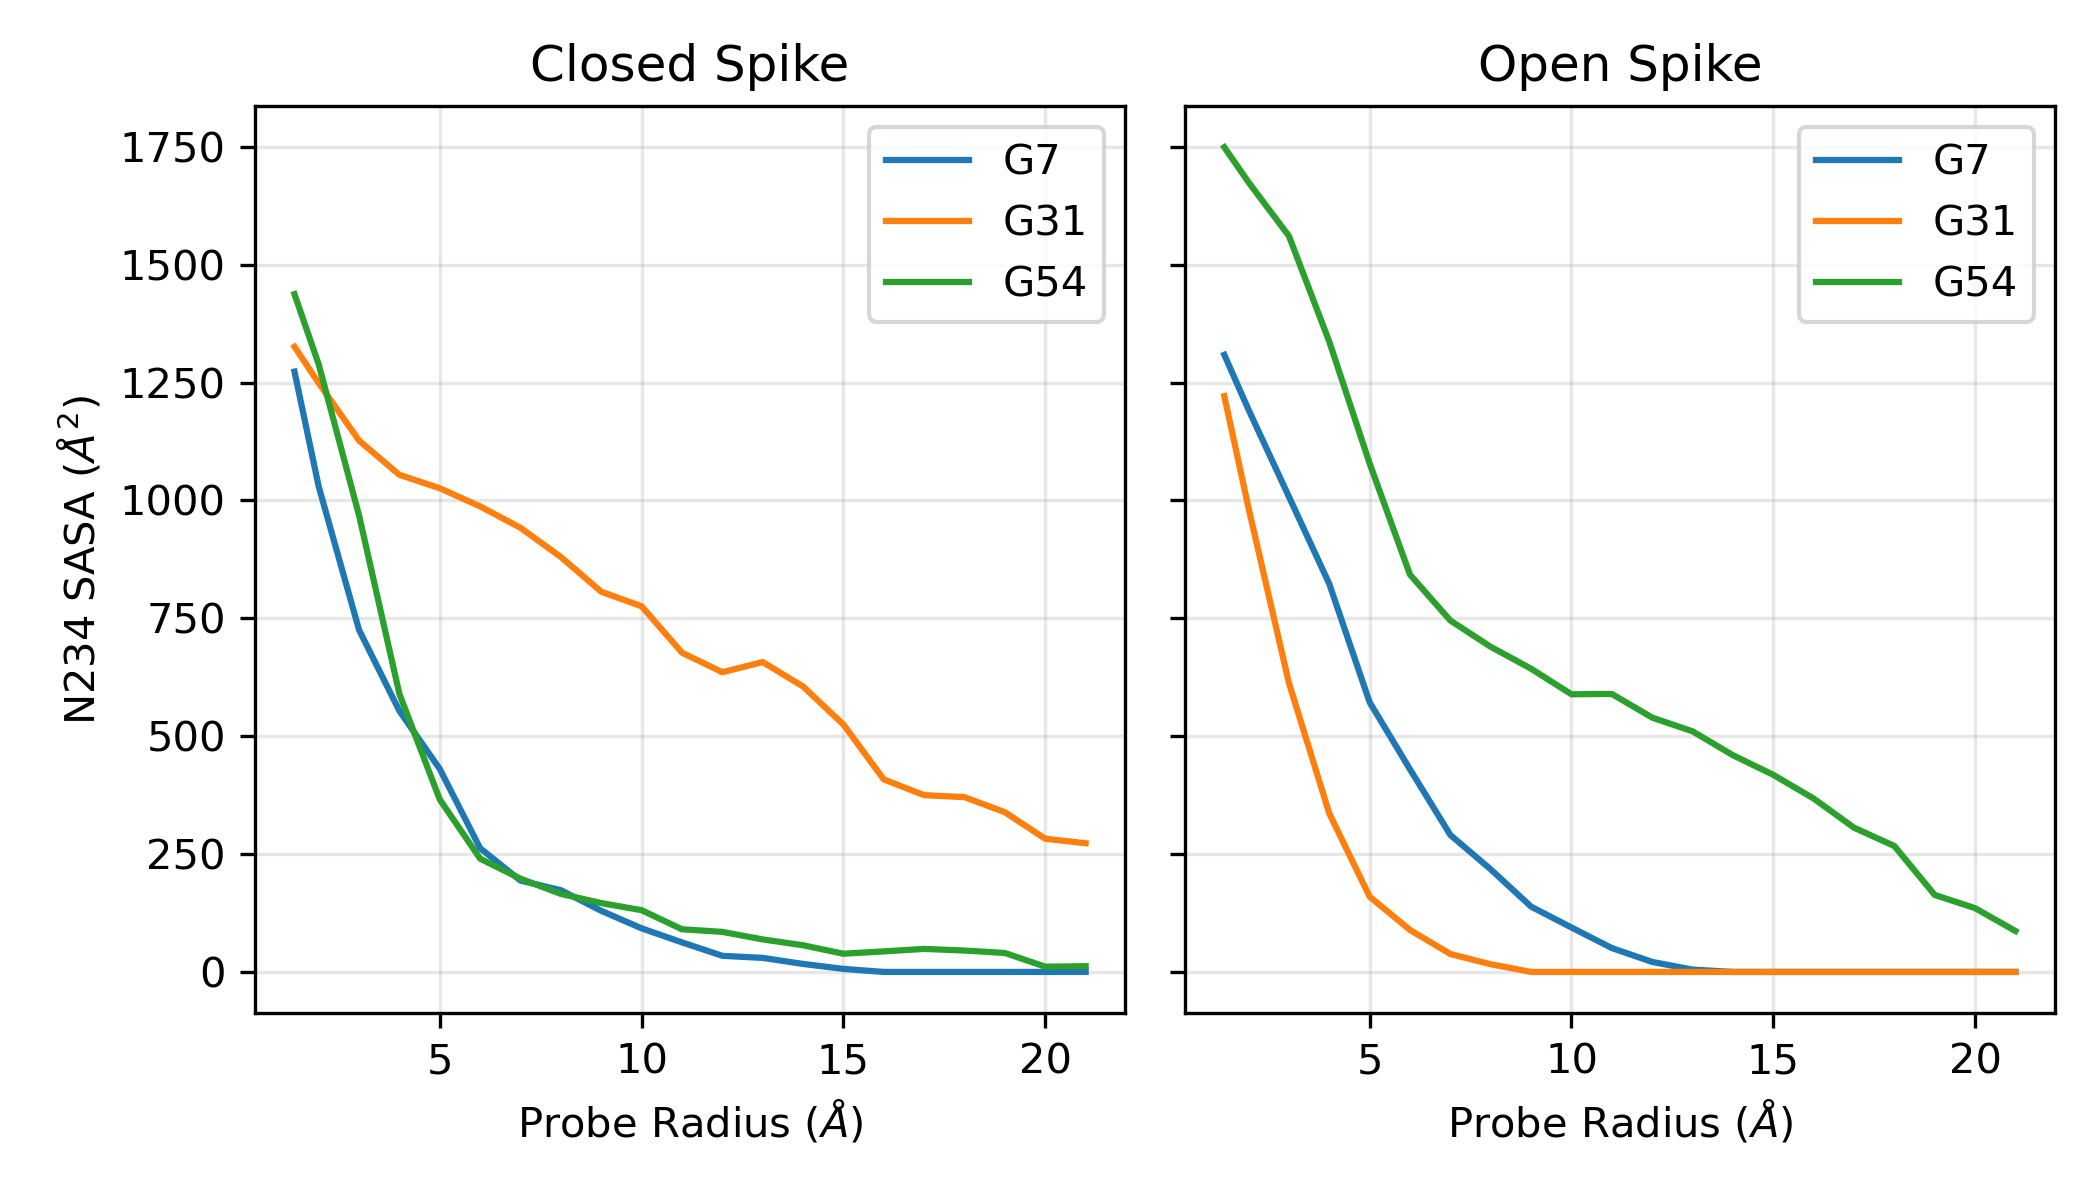
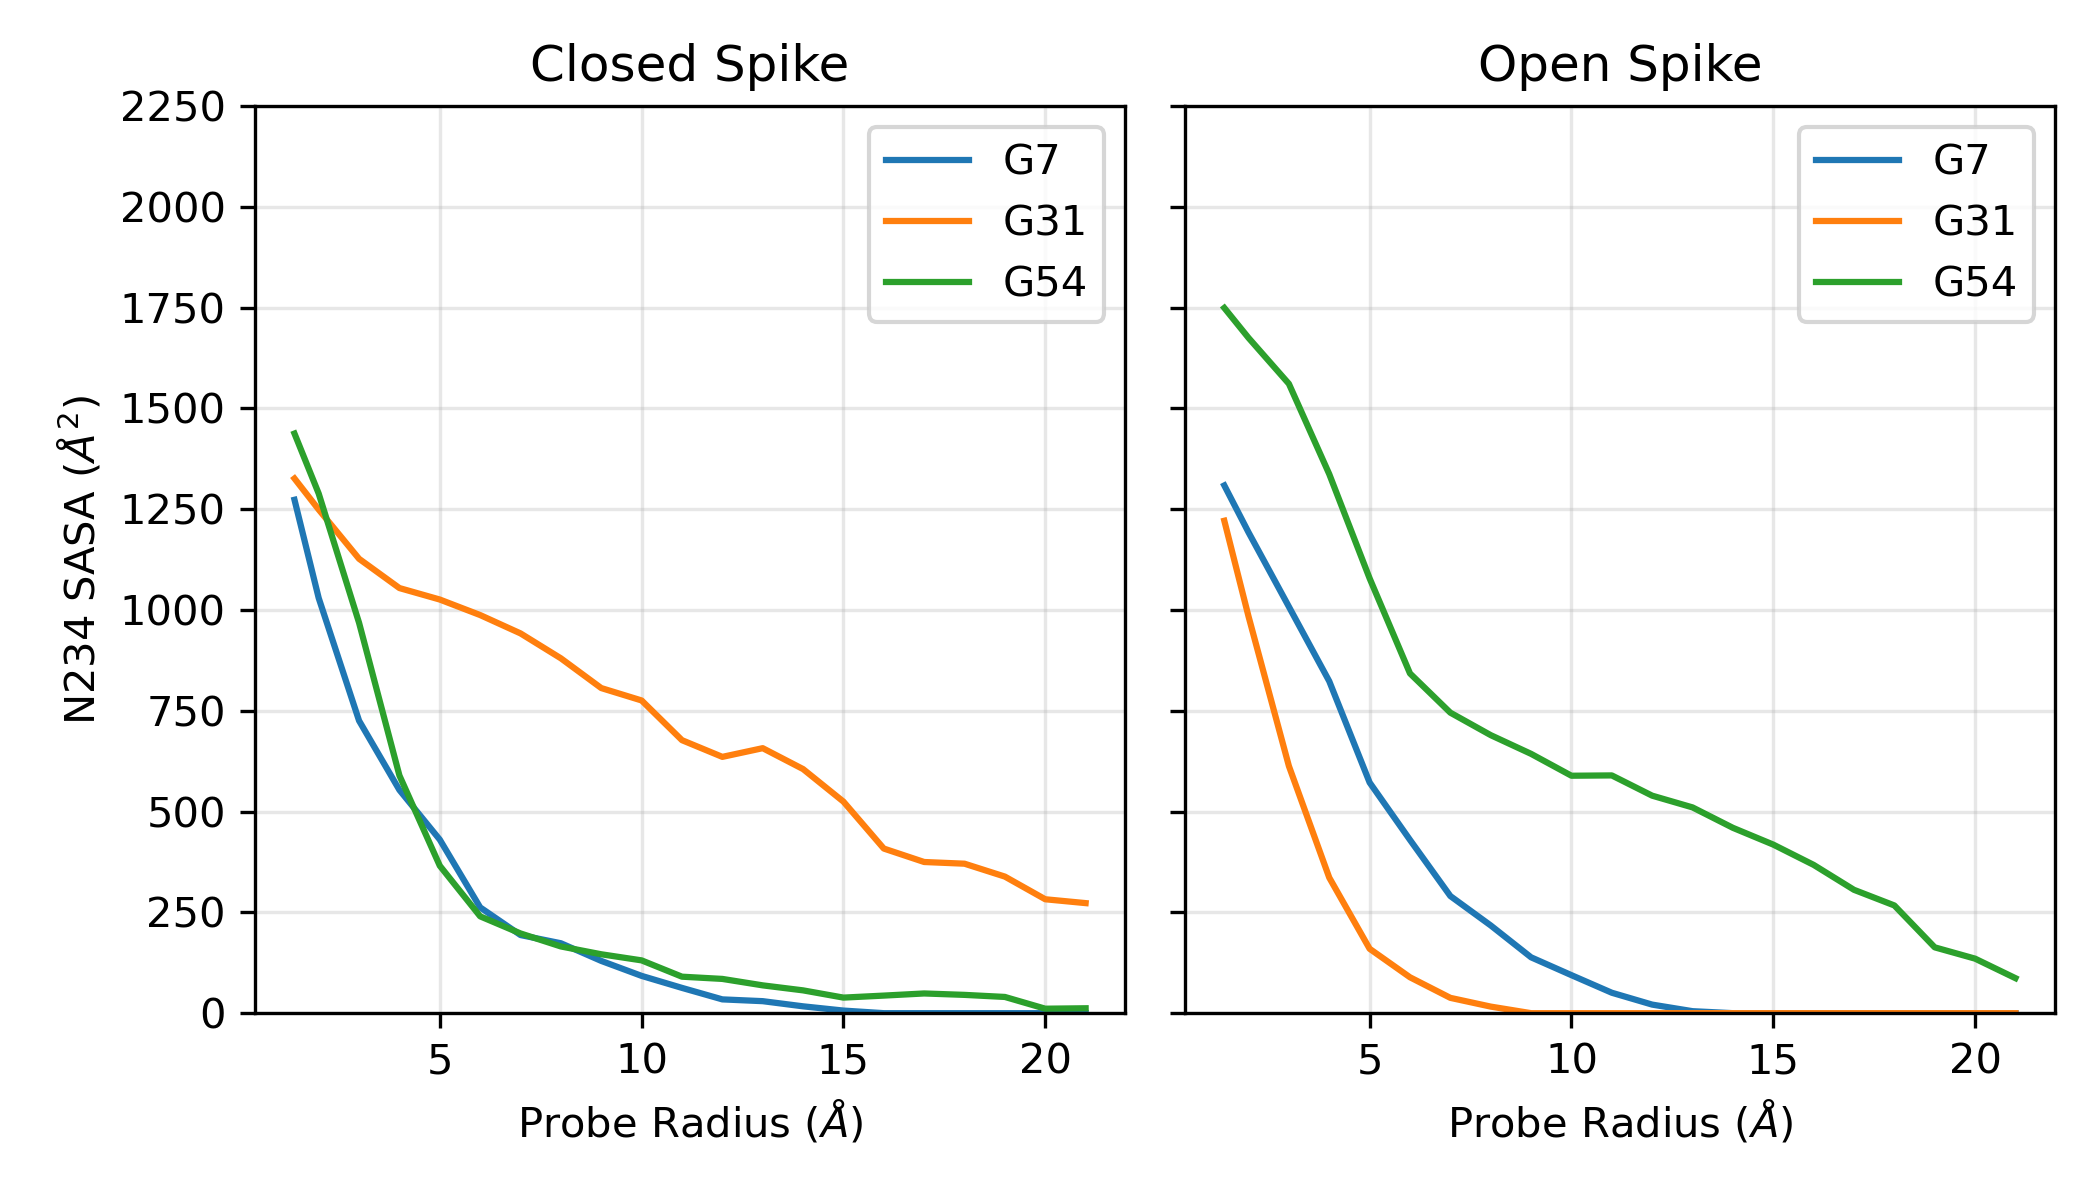
updated some plots and cpptraj-lcpo code was using res indicies not atom

diff --git a/N234/plot.py b/N234/plot.py
@@ -31,6 +31,8 @@ ax[1].set_xlabel("Probe Radius ($\AA$)")
 ax[1].set_title("Open Spike")
 ax[1].grid(True, alpha=0.3)
 
+ax[0].set_ylim(0,2250)
+
 fig.tight_layout()
 fig.savefig("SASA_N234.png", dpi=300, transparent=False)
 plt.show()

diff --git a/N709/plot.py b/N709/plot.py
@@ -31,6 +31,8 @@ ax[1].set_xlabel("Probe Radius ($\AA$)")
 ax[1].set_title("Open Spike")
 ax[1].grid(True, alpha=0.3)
 
+ax[0].set_ylim(0,2250)
+
 fig.tight_layout()
 fig.savefig("SASA_N709.png", dpi=300, transparent=False)
 plt.show()
